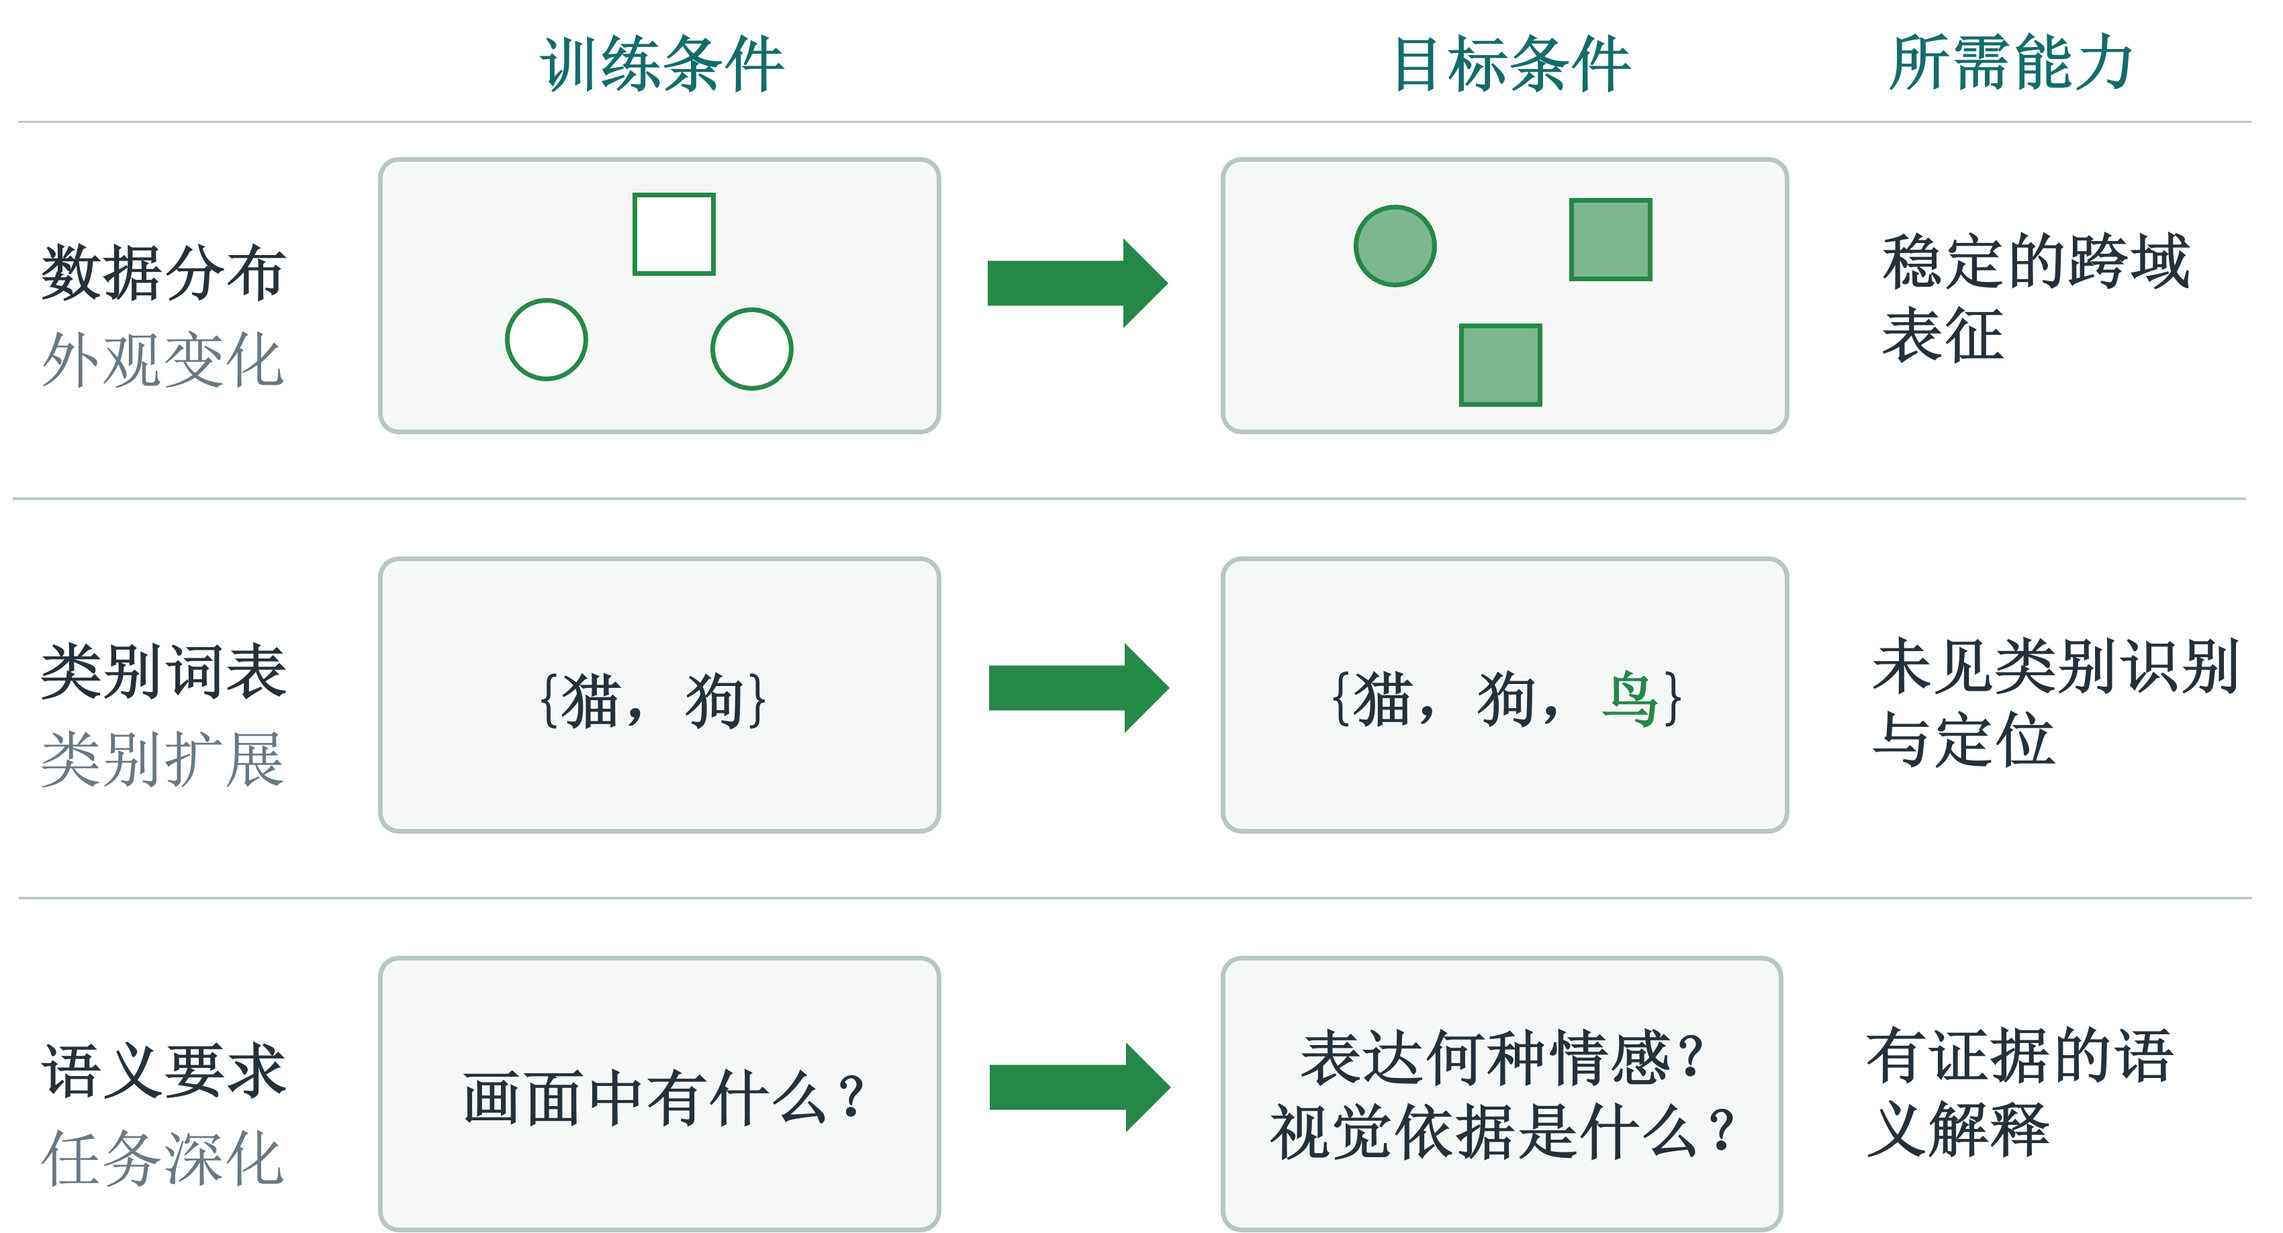
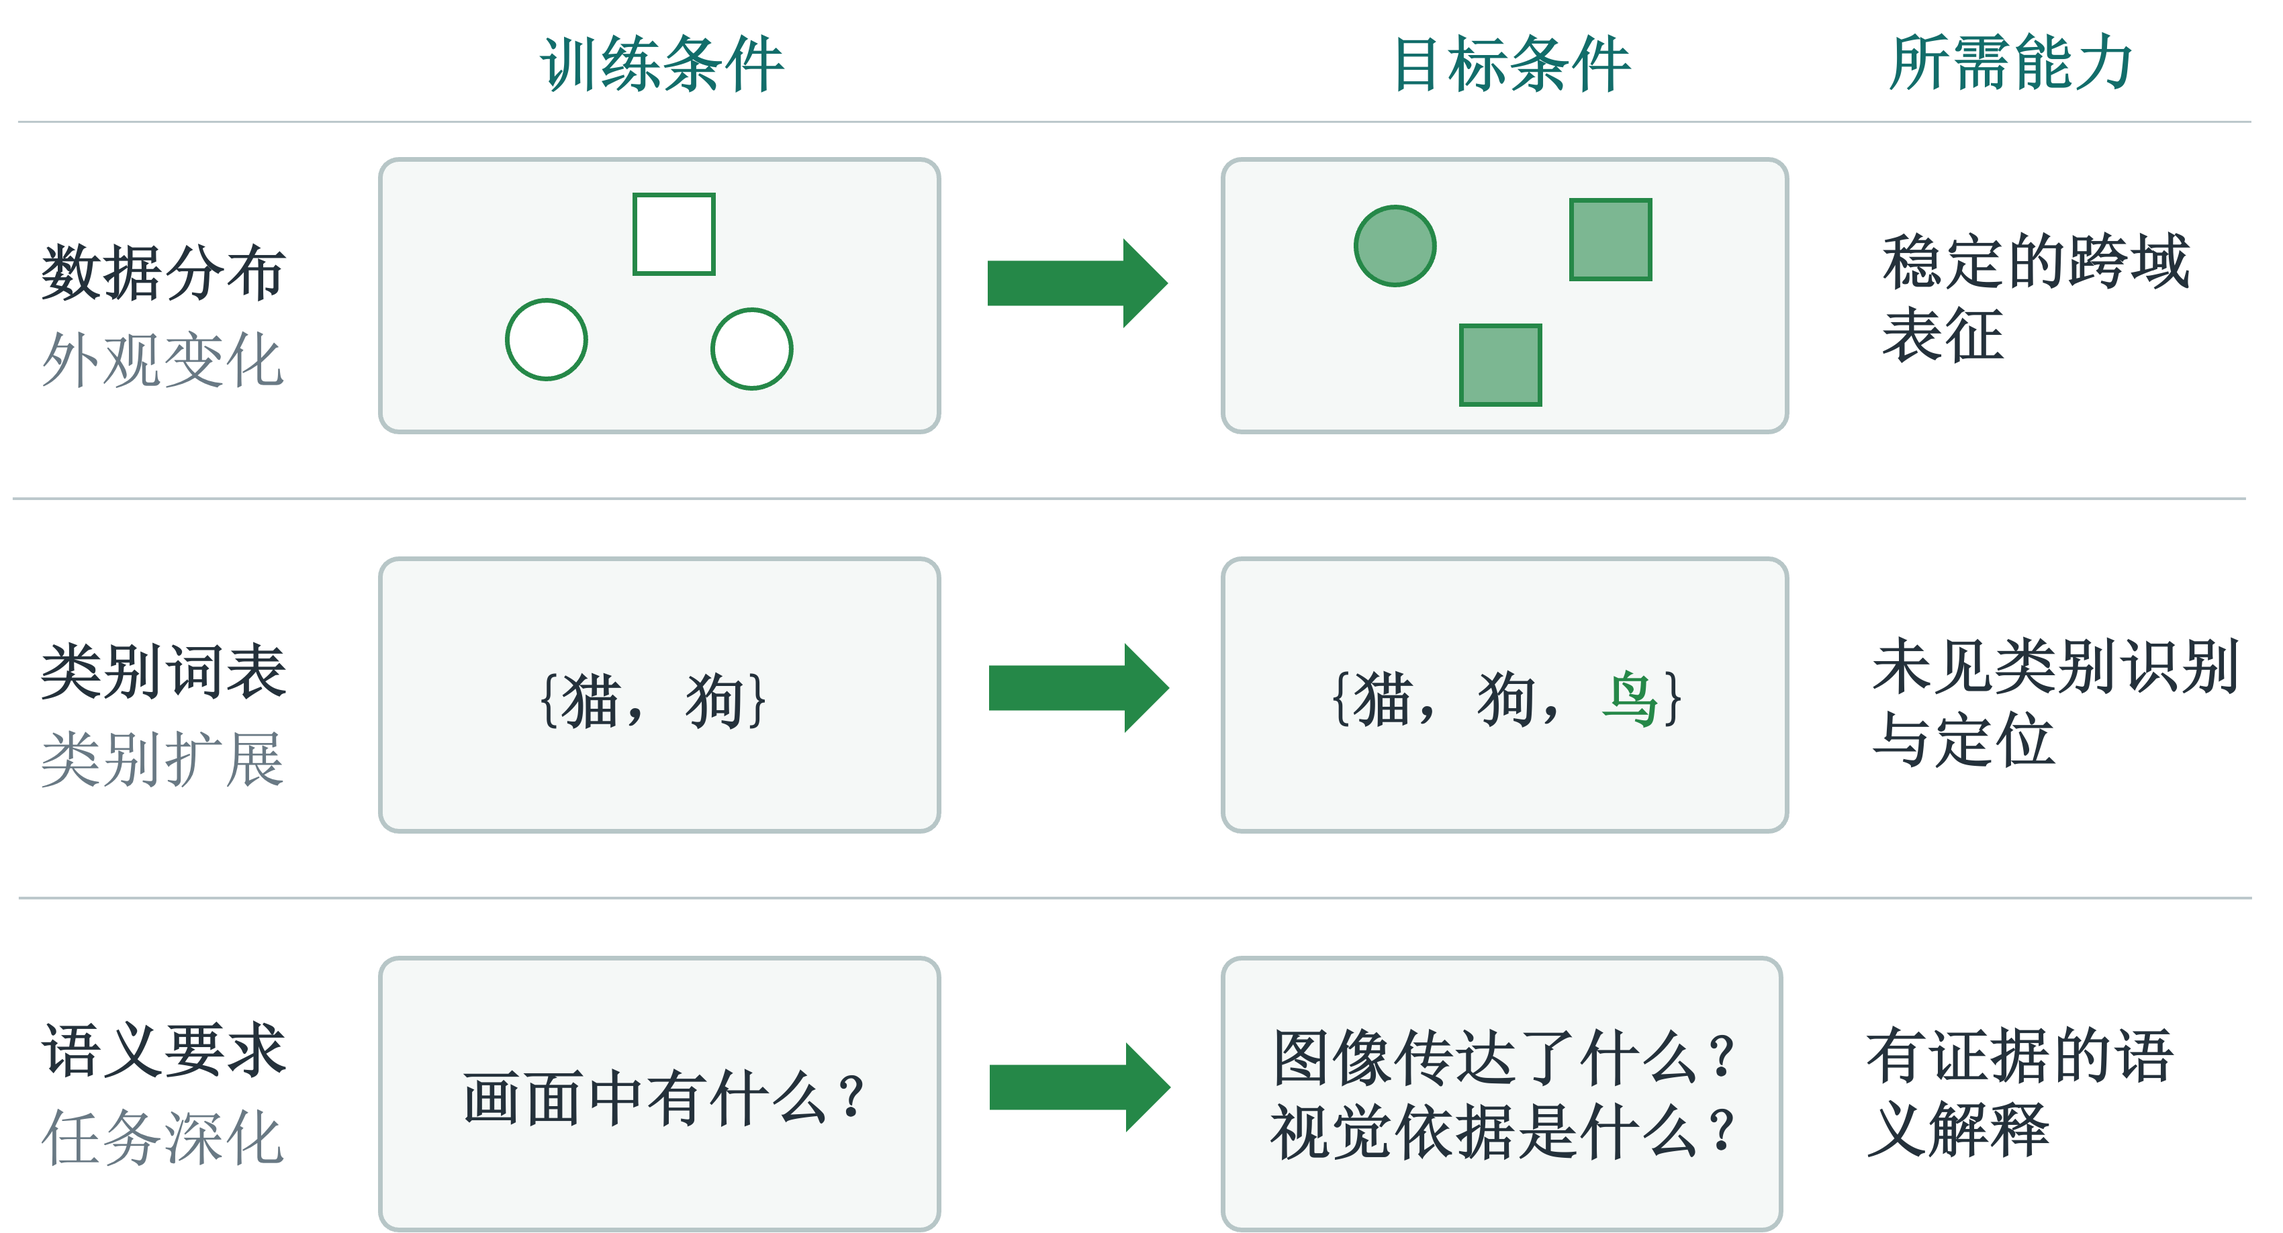
save

Changed region(s): [[0.0, 0.8068, 0.1247, 0.9619], [0.5612, 0.8378, 0.7794, 0.8998]]

diff --git a/back/conclusion.tex b/back/conclusion.tex
@@ -1,20 +1,20 @@
 % !Mode:: "TeX:UTF-8"
 \begin{conclusions}
 
-视觉模型在不同泛化场景下的迁移问题长期面临数据分布、类别词表与语义层次三类开放性约束，制约其在跨域图像识别、开放词汇分割与艺术图像情感理解等任务上的可靠建模与有效泛化。这三类约束在表征建模、类别空间与语义层次三个层面相互独立又相互联系：数据分布维度的失配关注源—目标分布差异下的判别与表征稳定性，类别词表维度的失配关注开放世界下新类别物体的细粒度识别，语义层次维度的失配关注艺术图像等高阶语义推理所需的认知能力。现有工作多围绕单一约束维度独立展开，鲜有以视觉模型迁移为统一主线、沿三类约束分别加以系统性研究的尝试。
+视觉感知模型从训练条件走向目标场景时，既可能遭遇数据分布与类别词表的变化，也可能面对更高的任务语义要求。本文将模型在这些条件变化下仍需保持相应能力的情形统称为多泛化场景，沿域泛化、类泛化与语义理解泛化三个层面展开研究。研究对象由跨分布的样本表征、开放类别的概念识别，逐步拓展至高阶语义解释：前两个层面通过目标域适应与跨模型先验融合改善迁移表现，第三个层面则在不更新模型的条件下，以系统评测考察已有能力面对艺术情感推理任务时的适用范围。能力提升与能力评测由此构成本文两种不同而相互衔接的研究方式。
 
 % 本文以视觉模型迁移为主线，沿域泛化、类泛化与语义理解泛化三个层面协同展开研究：域泛化层面贯穿第 2 章与第 3 章，分别沿卷积神经网络与状态空间模型两条骨干路径协同抑制数据域迁移不确定性，并进一步扩展至稀缺标注设定下的少监督迁移问题；类泛化层面对应第 4 章，面向开放词汇分割任务设计跨模型先验融合方法；语义理解泛化层面对应第 5 章，构建艺术情感推理的多层级评测协议以系统化诊断现有模型的语义理解能力。
 
-（1）在域泛化维度上，模型的可靠分布迁移本质上是一个迁移不确定性的协同抑制问题：现有无监督方法在跨域分布偏移下的不确定性建模与表征鲁棒性上存在瓶颈，或依赖额外模型估计样本不确定性而引入不可忽略的计算开销与建模偏差，或缺乏对判别层与表征层迁移不确定性的协同抑制、难以在长程跨域建模与计算效率之间取得平衡。对此，本文从判别层与骨干层两个层次协同提出解决方案：在判别层，从不确定性源头抑制层面挖掘特征空间的样本级结构信息以量化伪标签层的不确定性，提出基于特征空间邻居一致性的样本级不确定性估计与自适应伪标签筛选方法，建立无需额外模型的判别层去噪机制；在骨干层，从传播路径阻断层面抑制虚假相关性在跨通道与跨空间维度上的累积放大，提出通道级视觉状态空间模块与语义一致性打乱策略，建立表征层与序列层双维度协同抑制迁移不确定性的轻量化建模方法。两者在统一自训练框架下从源头抑制与传播路径阻断两个层面协同突破，在四个无源域适应基准上验证了上述方法在判别层去噪与长程跨域建模上的有效性。
+（1）面向无监督跨域迁移，源模型依赖的域特异性线索可能使目标域表征与预测偏移；错误预测一旦被用作伪标签，又会在自训练中放大初始偏差。针对监督信号的可靠性，本文提出 UPA，利用特征空间的邻域一致性估计样本级伪标签可靠性，自适应筛选训练样本，并通过类别感知对比学习抑制噪声传播，无需引入额外的不确定性估计模型。针对骨干表征的稳定性，本文提出 SfMamba，以通道级视觉状态空间模块增强跨通道建模，并通过语义一致性打乱策略削弱背景空间共现带来的虚假相关性，在保持线性序列复杂度的同时建模长程依赖。两项工作分别从伪标签监督和特征表征环节减轻迁移误差的累积，在 Office、Office-Home、VisDA-C 与 DomainNet-126 等无源域适应基准上验证了有效性。
 
-（2）在域泛化维度进一步扩展至少监督模型迁移设定下，模型迁移面临稀缺标注与伪标签噪声的双重不确定性叠加：现有少监督方法在监督信号信息量的挖掘与跨模态协同上探索不足，缺乏对视觉—语言模型开放语义先验的系统利用，盲目采样引入冗余样本并放大伪标签噪声，互补语义信息停留在样本选择端而未转化为目标模型的学习增益，难以在信息量刻画与跨模型双向深度协同层面建立严谨的理论框架。对此，本文首先界定少监督迁移中信息最大化的确切内涵，即在监督预算约束下使模型从监督信号中获取的信息量最大，并将其落实为标注集合相对目标域的覆盖缺额、互补语义信号的理想残差与跨模型对齐缺口三项可量化要素；进而建立无源主动域适应协作风险上界的理论分析框架，揭示主动样本选择、视觉—语言模型适应与跨模型对齐三者的协同优化目标，并据此提出基于多模态引导的双主动学习无源域适应方法，构建视觉—语言模型与目标模型的双向深度协同框架，使两类互补信号在样本空间与假设空间两个层面实现增量互补，在闭集与开放集两种设定下均取得当前最优性能，验证了双主动学习与跨模型协同机制在稀缺标注场景下的实用价值。
+（2）面向少监督跨域迁移，有限标注能否有效覆盖目标域差异、并转化为目标模型的判别能力，是提高监督信息利用效率的关键。本文以固定监督预算下的目标域学习收益界定信息最大化目标，在无源主动域适应设定中提出 DAMF：通过双聚焦样本选择获取具有代表性和判别价值的目标样本，适配视觉—语言模型以提供互补语义监督，再通过交替蒸馏促进其与源模型之间的双向知识传递。协作风险上界从样本覆盖、模型风险与跨模型对齐等方面分析了方法的作用。在 Office-Home、VisDA-C 与 Office 的闭集和开集实验中，该方法相较所比较的基线取得了性能提升，表明有限标注与多模态先验的协同利用能够改善目标域适应。
 
-（3）在类泛化维度上，开放词汇分割面临多流语义对齐与空间定位两个层面的协同不足：现有跨类泛化方法在多流语义对齐层面难以在统一解码框架内实现掩码生成与开放词汇识别之间的深度协同，在空间定位层面难以同时兼顾像素级对齐的精细建模与对未见类别的掩码质量，致使对长尾与未见类别的细粒度识别能力受限。对此，本文提出基于跨模型先验融合的开放词汇分割方法，通过查询注入与特征注入两类轻量化模块，在保持基础模型参数冻结的前提下，使空间定位与开放词汇语义两类先验在不同网络深度上交叉作用、在网络前向推理中相互增强，建立多层级协同融合与双向耦合机制下的跨模型先验深度融合，在多个开放词汇分割基准上提升了未见类别的分割质量，验证了该机制在跨类泛化研究中的有效性。
+（3）面向类泛化中的开放词汇分割任务，模型既要识别训练阶段未见的类别，也要准确确定其像素区域。现有方法往往难以兼顾视觉—语言模型的开放语义能力与分割基础模型的空间定位能力。本文提出 CMPF，在轻量解码器中通过查询注入和特征注入融合两类先验，并在推理阶段集成分割基础模型的零样本掩码预测，缓解类别判别与掩码质量之间的错配。该方法在全景、语义和实例分割等八个基准上验证了对未见类别的泛化能力。
 
-（4）在语义理解泛化维度上，艺术图像情感推理需要兼具证据化解释与多维度诊断能力的高阶语义评测标准，而现有语义理解标准在证据锚定与评测维度建模上存在结构性缺口：在证据锚定层面未能将语义归因与视觉证据进行细粒度绑定，在评测维度建模层面沿用单维分类或简短问答形式未能系统拆解互补的认知子维度。对此，本文构建面向艺术情感推理的多层级评测基准，从低层视觉线索到高层情感推理系统化拆解艺术情感理解过程，覆盖八类艺术风格、单图与配对图两类任务及从流畅情感表述到基于视觉证据可靠解释的多维度评测指标，对闭源与开源多模态大语言模型进行了系统化诊断，揭示了现有模型在艺术情感推理能力上的多维度缺口，为后续研究提供了诊断依据。
+（4）面向语义理解要求提升的艺术情感推理任务，已有研究分别提供了情感解释、视觉属性、刺激区域及多任务情感评测，但在同一评测体系中追踪视觉线索、情感判断与证据化解释之间的关系仍有不足。本文构建 AER-Bench，将艺术情感理解划分为感知维度、情感与效价—唤醒度—支配度、基于证据的推理和情感描述四个互补层级，结合单图与配对任务、确定性指标与开放式评分，对 14 个代表性多模态大语言模型进行系统评测。结果揭示模型的情感判断与证据化解释之间仍存在能力差距。本章通过评测刻画已有能力在高阶语义任务中的适用范围，并不将评测结果视作模型优化后的迁移增益。
 
-综合上述四方面工作，本文沿域泛化、类泛化与语义理解泛化三个层面形成了从模型迁移不确定性协同抑制到稀缺标注信息驱动协同、从开放词表多层级融合到艺术情感多维度评测的完整研究链条。
+综合上述工作，本文从跨分布条件下的可靠适应出发，进一步研究开放类别下的先验融合，并以高阶语义任务中的能力评测检验模型已有知识的适用范围。这一路径将稳定表征、未见类别识别与证据化语义解释置于同一目标条件变化的框架下，也明确区分了迁移方法带来的性能改进与评测所揭示的能力边界。
 
-尽管本文取得了一定成果，但多泛化场景下的模型迁移仍面临若干尚未获得一致答案的基本问题。在模型、数据与部署条件同时演化的复杂场景中，这类问题尤为突出：当目标域持续漂移且类别不断涌现，模型既需跟随环境调整，又需避免适应过程对既有能力造成不可逆的损伤，二者之间的代价关系尚不明朗；当可用标注极为稀缺而评判标准本身也带有主观性，如何为模型建立可信赖的失效判据而非仅报告单点精度，同样缺乏答案；当数据受隐私与合规约束、无法集中汇集，迁移能否在分散且互相隔离的数据源之间完成，也仍是开放问题；当计算与能耗预算受限而模型规模持续增长，如何在资源约束下保留对未知偏移的稳健性，而非以规模换取基准上的收益，同样有待系统探索。
+本文的实验主要在预设的目标域、类别集合与评测任务上展开，尚未覆盖目标条件持续变化的长期部署过程。后续研究可进一步考察分布漂移与新类别出现时的持续适应，兼顾新知识获取和已有能力保持；在标注稀缺、语义判断存在主观差异的任务中，建立能够区分模型失误、标注分歧与评测偏差的评价机制；并探索隐私与合规约束下的分布式知识迁移，使模型能够在数据无法集中汇集时仍获得可靠的适应能力。
 
 \end{conclusions}

diff --git a/body/chap1.tex b/body/chap1.tex
@@ -12,7 +12,7 @@
 
 \begin{figure}[!htbp]
  \centering
- \includegraphics[width=.8\linewidth]{figures/multi_generalization_shift.pdf}
+ \includegraphics[width=.8\linewidth]{figures/train_test.png}
  \bicaption[fig:iidood]{}{训练与目标条件在数据分布、类别词表和语义要求上的差异}{Fig.}{Differences between training and target conditions in data distribution, category vocabulary, and semantic requirements}
 \end{figure}
 
@@ -200,7 +200,13 @@ OVS 方法可沿“先生成掩码再分类”的两阶段路径与“端到端 
 
 \subsection{本文的研究内容}
 
-前文表明，训练与目标条件之间的差异既可能改变样本分布和类别范围，也可能提高目标任务对语义解释的要求。针对数据分布与类别词表变化，本文研究如何利用有限的目标侧信息和预训练先验改善模型的迁移表现；针对语义理解要求的提高，本文研究如何在不更新模型的条件下评估既有能力的适用范围。两类工作分别从能力提升和能力评测回应多泛化场景下的模型迁移问题，具体归纳为以下四个研究问题。
+视觉感知模型进入真实应用后，训练与目标条件的差异会以不同形式出现，举例如图~\ref{fig:generalization_scenes}所示。在道路场景中，天气与成像条件变化可能改变车辆的外观分布，使原有判别依据不再稳定；在室内场景中，新出现的花瓶超出预设类别词表，模型需要识别并定位训练时未见的对象；当任务由辨认对象、场景和动作转向解释艺术作品传达的情感时，模型还须说明判断所依据的视觉线索。这些情境分别对应数据分布、类别词表与任务语义要求的变化。针对前两类变化，本文研究如何利用有限的目标侧信息与预训练先验改善迁移表现；针对语义理解要求的提高，本文在不更新模型的条件下评估既有能力的适用范围。由此，本文从能力提升与能力评测两个方面展开研究，归纳为以下四个研究问题。
+
+\begin{figure}[!htbp]
+ \centering
+ \includegraphics[width=.8\textwidth]{figures/scene.png}
+ \bicaption[fig:generalization_scenes]{}{数据分布、类别词表与任务语义要求变化的应用场景示例}{Fig.}{Examples of changes in data distribution, category vocabulary, and task-level semantic demands}
+\end{figure}
 
 
 \noindent\textbf{（1）无监督模型迁移的不确定性抑制问题}

diff --git a/body/chap4.tex b/body/chap4.tex
@@ -24,7 +24,7 @@
     \subfigure[]{
     \includegraphics[width=0.38\textwidth]{figures/cmpf/moti_b.png}
     }
-    \bicaption[fig:cmpf_motivation]{}{现有开放词汇SOTA方法对已见与未见类别的分割性能对比（左），及本章方法与其他两种方法的AR与mIoU对比（右）}{Fig.}{Comparison of SOTA open-vocabulary segmentation methods on seen vs unseen classes (left) and AR/mIoU on unseen classes (right) of CMPF vs MaskCLIP and FC-CLIP on PC-459}
+    \bicaption[fig:cmpf_motivation]{}{现有方法分割表现（左）及本章方法的对比（右）}{Fig.}{Comparison of SOTA open-vocabulary segmentation methods on seen vs unseen classes (left) and AR/mIoU on unseen classes (right) of CMPF vs MaskCLIP and FC-CLIP on PC-459}
 \end{figure}
 
 为突破上述瓶颈，本章提出基于跨模型先验融合的开放词汇分割方法 CMPF。该方法的核心思想是：协同整合SAM的像素级空间定位能力与CLIP的开放词汇语义理解能力，通过查询注入器与特征注入器两个模块在Transformer解码器内部实现两类先验知识的深度融合，并借助开放集合集成模块在推理阶段融合SAM的零样本掩码预测，进一步提升未见类别的分割质量。
